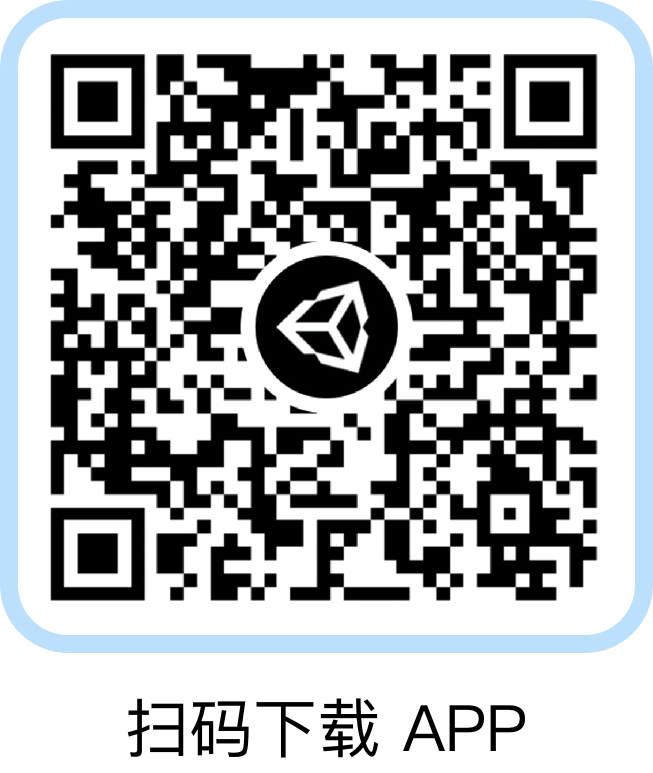
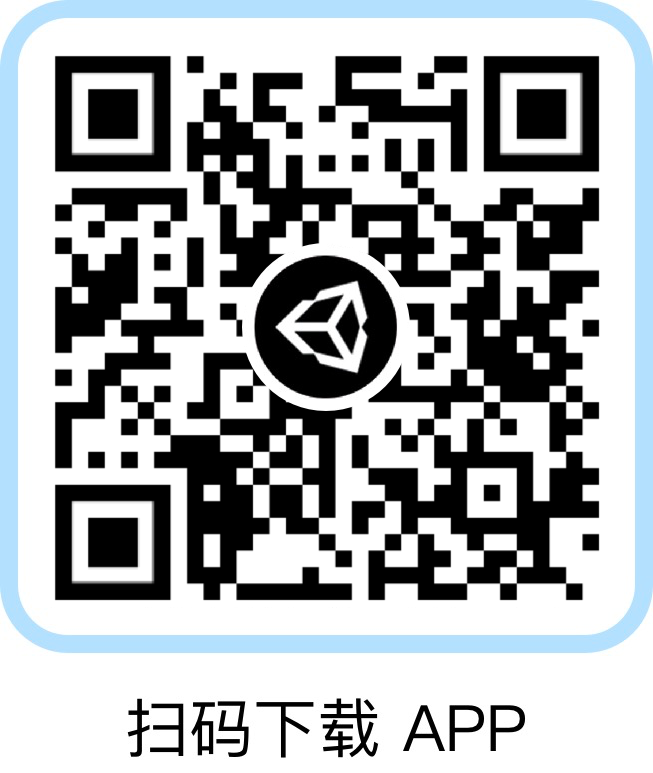
update: updated QRCode image.

diff --git a/README.md b/README.md
@@ -17,9 +17,9 @@
 
 ### 下载
 
-<a href="https://connect.unity.com/connectApp/download" target="_blank"><img height="60px" src="https://github.com/finnif/ConnectAppCN/raw/master/Images/UnityOfficial_ZH.png"></a>&nbsp;&nbsp;&nbsp;&nbsp;&nbsp;<a href="https://apps.apple.com/cn/app/unity-connect/id1441624698?mt=8" target="_blank"><img height="60px" src="https://github.com/finnif/ConnectAppCN/raw/master/Images/AppStore_ZH.png"></a>&nbsp;&nbsp;&nbsp;&nbsp;&nbsp;<a href="https://appgallery.cloud.huawei.com/uowap/index.html#/detailApp/C100771325" target="_blank"><img height="60px" src="https://github.com/finnif/ConnectAppCN/raw/master/Images/AppGallery_ZH.png"></a>
+<a href="https://unity.cn/connectApp/download" target="_blank"><img height="60px" src="https://github.com/finnif/ConnectAppCN/raw/master/Images/UnityOfficial_ZH.png"></a>&nbsp;&nbsp;&nbsp;&nbsp;&nbsp;<a href="https://apps.apple.com/cn/app/unity-connect/id1441624698?mt=8" target="_blank"><img height="60px" src="https://github.com/finnif/ConnectAppCN/raw/master/Images/AppStore_ZH.png"></a>&nbsp;&nbsp;&nbsp;&nbsp;&nbsp;<a href="https://appgallery.cloud.huawei.com/uowap/index.html#/detailApp/C100771325" target="_blank"><img height="60px" src="https://github.com/finnif/ConnectAppCN/raw/master/Images/AppGallery_ZH.png"></a>
 
-<a href="https://connect.unity.com/connectApp/download" target="_blank"><img height="250px" src="https://github.com/finnif/ConnectAppCN/raw/master/Images/QRCode_ZH.png">
+<a href="https://unity.cn/connectApp/download" target="_blank"><img height="250px" src="https://github.com/finnif/ConnectAppCN/raw/master/Images/QRCode_ZH.png">
 
 ## 让项目运行
 #### 获取源代码

diff --git a/README_EN.md b/README_EN.md
@@ -16,9 +16,9 @@
 
 ### Download
 
-<a href="https://connect.unity.com/connectApp/download" target="_blank"><img height="60px" src="https://github.com/finnif/ConnectAppCN/raw/master/Images/UnityOfficial_EN.png"></a>&nbsp;&nbsp;&nbsp;&nbsp;&nbsp;<a href="https://apps.apple.com/cn/app/unity-connect/id1441624698?mt=8" target="_blank"><img height="60px" src="https://github.com/finnif/ConnectAppCN/raw/master/Images/AppStore_EN.png"></a>&nbsp;&nbsp;&nbsp;&nbsp;&nbsp;<a href="https://appgallery.cloud.huawei.com/uowap/index.html#/detailApp/C100771325" target="_blank"><img height="60px" src="https://github.com/finnif/ConnectAppCN/raw/master/Images/AppGallery_EN.png"></a>
+<a href="https://unity.cn/connectApp/download" target="_blank"><img height="60px" src="https://github.com/finnif/ConnectAppCN/raw/master/Images/UnityOfficial_EN.png"></a>&nbsp;&nbsp;&nbsp;&nbsp;&nbsp;<a href="https://apps.apple.com/cn/app/unity-connect/id1441624698?mt=8" target="_blank"><img height="60px" src="https://github.com/finnif/ConnectAppCN/raw/master/Images/AppStore_EN.png"></a>&nbsp;&nbsp;&nbsp;&nbsp;&nbsp;<a href="https://appgallery.cloud.huawei.com/uowap/index.html#/detailApp/C100771325" target="_blank"><img height="60px" src="https://github.com/finnif/ConnectAppCN/raw/master/Images/AppGallery_EN.png"></a>
 
-<a href="https://connect.unity.com/connectApp/download" target="_blank"><img height="250px" src="https://github.com/finnif/ConnectAppCN/raw/master/Images/QRCode_EN.png">
+<a href="https://unity.cn/connectApp/download" target="_blank"><img height="250px" src="https://github.com/finnif/ConnectAppCN/raw/master/Images/QRCode_EN.png">
 
 ## Get started
 #### Get repo
